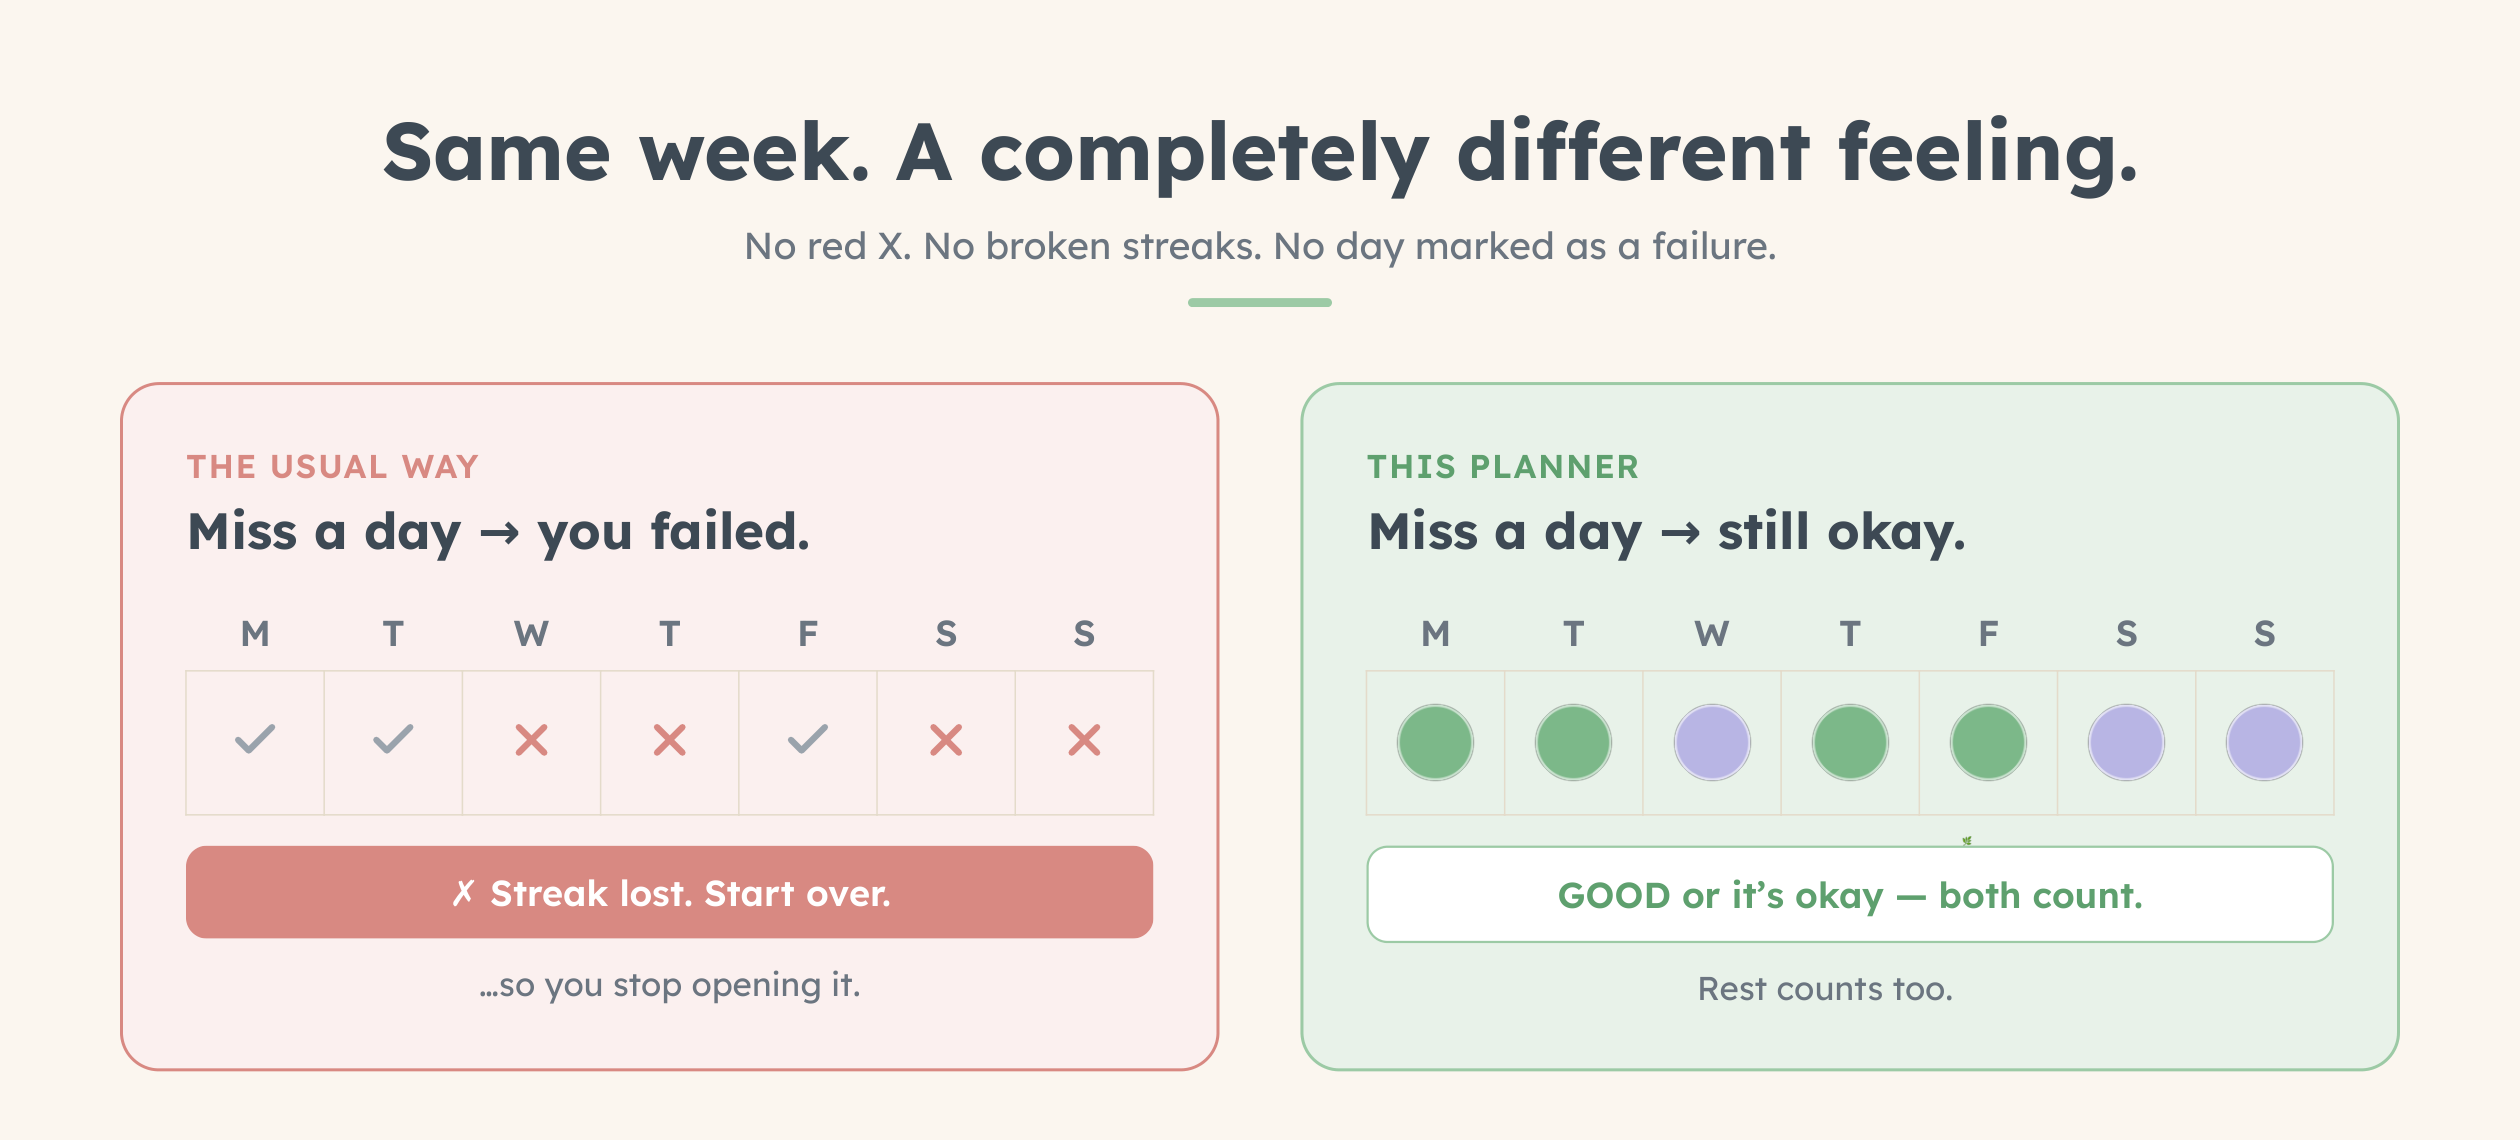
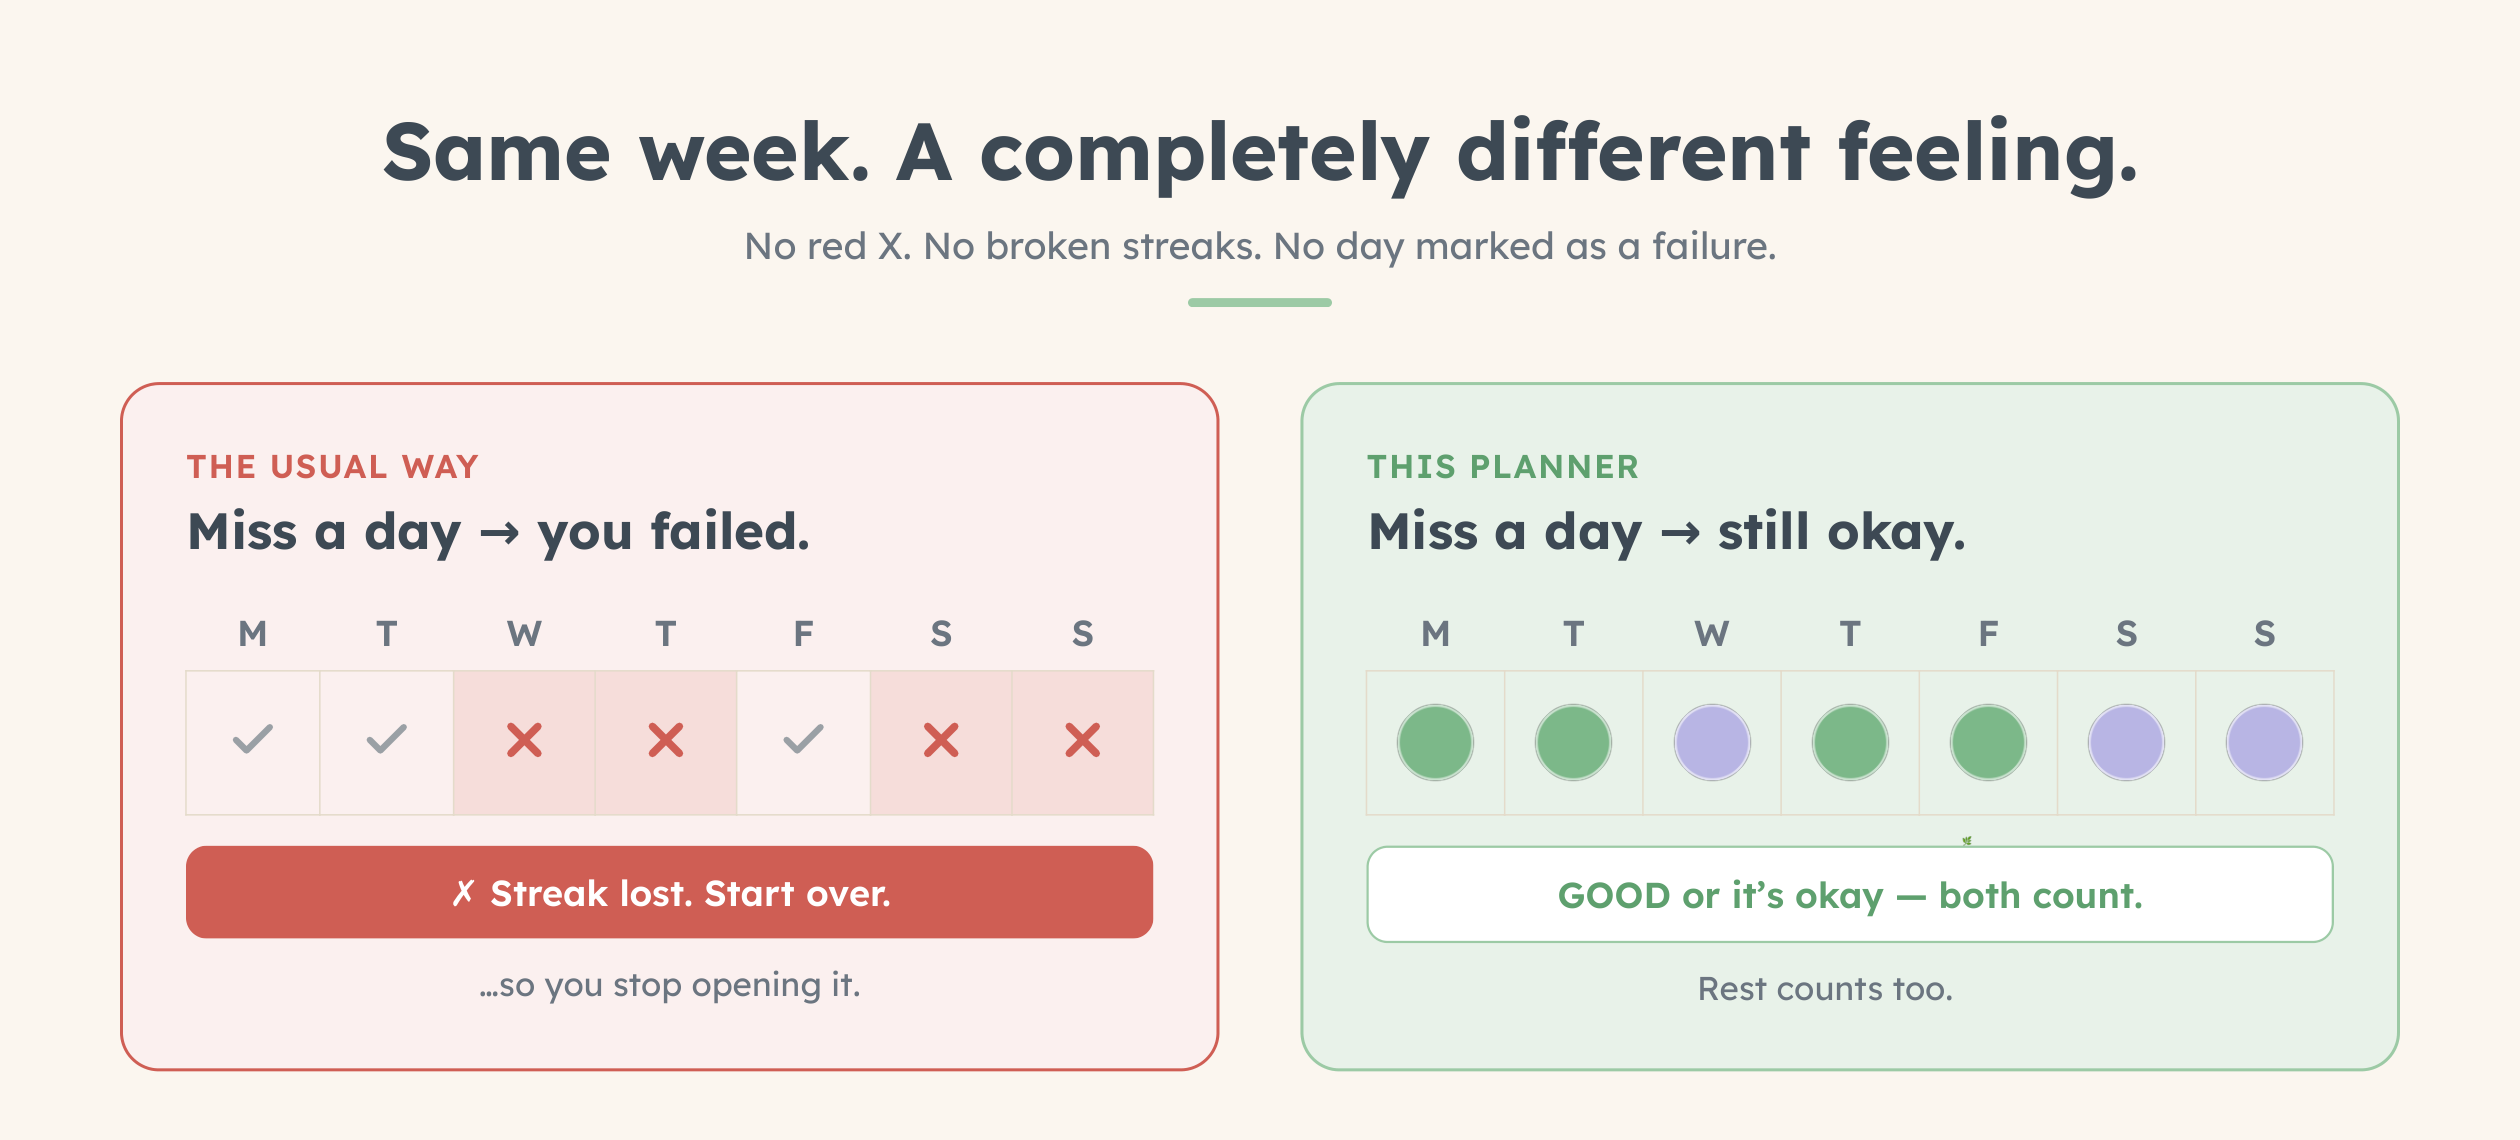
Etsy #4 tracker: stronger before/after contrast
- 'Before' checks now neutral grey (was green-cast, muddied the contrast)
- Missed days: bolder red X on a faint red cell wash so failure reads at a glance
- Fully contrasts with the green/lavender 'after' panel

Claude-Session: https://claude.ai/code/session_01KcnXVGn1PA3dMxNF6GEYD2

diff --git a/adhd-planner/src/etsy_assets.py b/adhd-planner/src/etsy_assets.py
@@ -204,17 +204,22 @@ def build_modes():
 # ===========================================================================
 def build_tracker():
     W, H = 1680, 760
-    RED = "#D98A82"      # muted, generic — not disparaging any brand
+    RED = "#CF5F55"       # clear, generic red — not disparaging any brand
+    GREYX = "#9BA0A6"     # neutral grey (no green cast) for the "done" checks
     days = ["M", "T", "W", "T", "F", "S", "S"]
     stick = C.ASSET_DIR / "stickers"
 
-    # LEFT: the usual guilt tracker (X marks, broken streak)
-    xmark = (f'<svg viewBox="0 0 24 24" width="34" height="34" fill="none" stroke="{RED}" '
-             f'stroke-width="3" stroke-linecap="round"><path d="M6 6l12 12M18 6L6 18"/></svg>')
-    checkg = (f'<svg viewBox="0 0 24 24" width="34" height="34" fill="none" stroke="#9aa4ac" '
+    # LEFT: the usual guilt tracker — neutral-grey checks, hard red X on misses,
+    # and a faint red wash on the missed cells so "failure" pops at a glance.
+    xmark = (f'<svg viewBox="0 0 24 24" width="36" height="36" fill="none" stroke="{RED}" '
+             f'stroke-width="3.4" stroke-linecap="round"><path d="M6 6l12 12M18 6L6 18"/></svg>')
+    checkg = (f'<svg viewBox="0 0 24 24" width="34" height="34" fill="none" stroke="{GREYX}" '
               f'stroke-width="3" stroke-linecap="round" stroke-linejoin="round"><path d="M4 12l5 5L20 6"/></svg>')
-    left_marks = [checkg, checkg, xmark, xmark, checkg, xmark, xmark]
-    left_cells = "".join(f'<td>{m}</td>' for m in left_marks)
+    # (mark, is_miss)
+    left_marks = [(checkg, False), (checkg, False), (xmark, True), (xmark, True),
+                  (checkg, False), (xmark, True), (xmark, True)]
+    left_cells = "".join(
+        f'<td class="{"miss" if miss else ""}">{m}</td>' for m, miss in left_marks)
     left_head = "".join(f'<th>{d}</th>' for d in days)
 
     # RIGHT: our stamps
@@ -241,6 +246,7 @@ def build_tracker():
       table {{ width:100%; border-collapse:collapse; margin:22px 0 10px; text-align:center; }}
       th {{ font-size:24px; font-weight:600; color:{CW['ink_soft']}; padding:10px 0; }}
       td {{ height:96px; border:1px solid {CW['line']}; }}
+      td.miss {{ background:#F7DEDA; }}
       td img {{ width:56px; height:56px; vertical-align:middle; }}
       .banner {{ margin-top:20px; padding:16px 22px; border-radius:14px; font-size:24px;
         font-weight:600; text-align:center; }}
